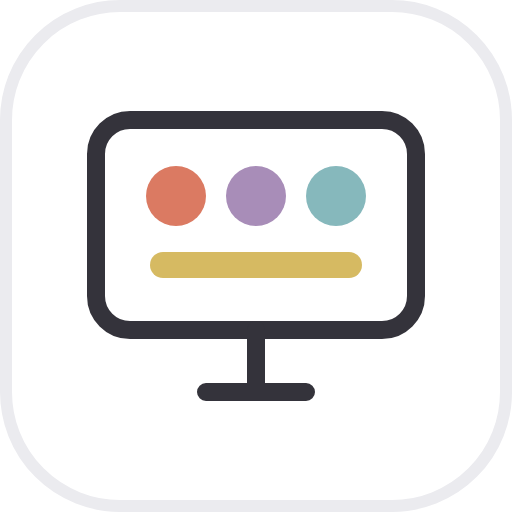
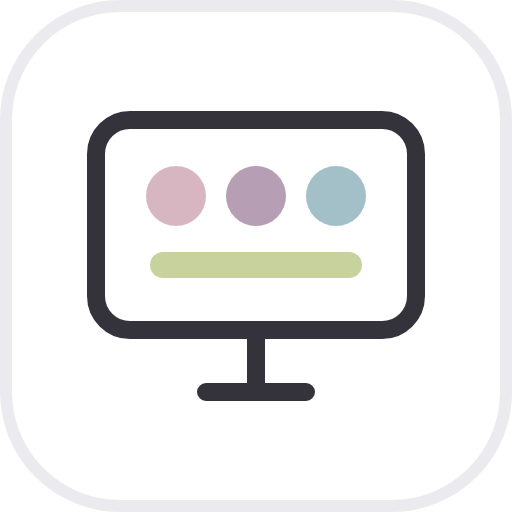
Five-colour palette and fresher offline updates
Board colours are now exactly #DEDDC3, #C8D29D, #A3BFC7, #B69FB4 and #D7B6C2, each with a tint and a readable text shade. The service worker now fetches fresh files (cache: reload) when a new version installs, so updates are never stored from the browser's short-term cache. Offline cache bumped to v8.

Changed region(s): [[0.2812, 0.4688, 0.7188, 0.5625], [0.5938, 0.3125, 0.7188, 0.4375], [0.2812, 0.3125, 0.4062, 0.4375]]

diff --git a/app.js b/app.js
@@ -50,7 +50,7 @@ const icon = name => {
 document.querySelectorAll('[data-icon]').forEach(n => n.replaceWith(icon(n.dataset.icon)));
 
 /* muted pastel tones; each name always gets the same one */
-const TONES = ['coral', 'teal', 'mustard', 'lavender', 'pink', 'sage', 'apricot', 'periwinkle', 'mauve', 'moss'];
+const TONES = ['blue', 'rose', 'pistachio', 'mauve', 'stone'];
 const toneOf = text => {
   let h = 0;
   for (const ch of text) h = (h * 31 + ch.codePointAt(0)) >>> 0;
@@ -587,7 +587,7 @@ const PIPS = { 1: [4], 2: [0, 8], 3: [0, 4, 8], 4: [0, 2, 6, 8], 5: [0, 2, 4, 6,
 
 const WIDGETS = {
   picker: {
-    title: 'Student picker', icon: 'picker', tone: 'coral', w: 340, h: 280,
+    title: 'Student picker', icon: 'picker', tone: 'rose', w: 340, h: 280,
     build(root, d) {
       const cls = activeClass();
       if (!cls.students.length) { root.append(needClass()); return; }
@@ -639,7 +639,7 @@ const WIDGETS = {
   },
 
   groups: {
-    title: 'Group maker', icon: 'groups', tone: 'lavender', w: 460, h: 380,
+    title: 'Group maker', icon: 'groups', tone: 'mauve', w: 460, h: 380,
     build(root, d) {
       const cls = rulesOf(activeClass());
       if (!cls.students.length) { root.append(needClass()); return; }
@@ -713,7 +713,7 @@ const WIDGETS = {
   },
 
   dice: {
-    title: 'Dice', icon: 'dice', tone: 'teal', w: 320, h: 300,
+    title: 'Dice', icon: 'dice', tone: 'blue', w: 320, h: 300,
     build(root, d) {
       d.count ||= 1; d.sides ||= 6;
       const tray = el('div', { class: 'dice' });
@@ -756,7 +756,7 @@ const WIDGETS = {
   },
 
   counter: {
-    title: 'Counter', icon: 'counter', tone: 'periwinkle', w: 320, h: 240,
+    title: 'Counter', icon: 'counter', tone: 'blue', w: 320, h: 240,
     build(root, d) {
       /* scores are kept per class; a new class starts with the same counter names at 0 */
       d.byClass ||= {};
@@ -786,7 +786,7 @@ const WIDGETS = {
   },
 
   gbg: {
-    title: 'Class Champions', icon: 'gbg', tone: 'sage', w: 760, h: 128, minH: 100, slim: true,
+    title: 'Class Champions', icon: 'gbg', tone: 'pistachio', w: 760, h: 128, minH: 100, slim: true,
     /* starts as a strip along the bottom of the screen, out of the way of the slides */
     pos: () => ({ x: Math.max(100, Math.round((innerWidth - 760) / 2)), y: Math.max(0, innerHeight - 128 - 16) }),
     build(root, d) {
@@ -932,7 +932,7 @@ const WIDGETS = {
   },
 
   timer: {
-    title: 'Timer', icon: 'timer', tone: 'pink', w: 290, h: 140, minH: 112, slim: true,
+    title: 'Timer', icon: 'timer', tone: 'rose', w: 290, h: 140, minH: 112, slim: true,
     /* a small pocket in the top-right corner, clear of the slides */
     pos: () => ({ x: Math.max(100, innerWidth - 290 - 16), y: 16 }),
     build(root, d) {
@@ -996,7 +996,7 @@ const WIDGETS = {
   },
 
   note: {
-    title: 'Note', icon: 'note', tone: 'mustard', w: 300, h: 240,
+    title: 'Note', icon: 'note', tone: 'stone', w: 300, h: 240,
     build(root, d) {
       d.size ||= 28;
       const area = el('textarea', { class: 'note-area', placeholder: 'Type a reminder, instruction or learning goal…',

diff --git a/sw.js b/sw.js
@@ -2,7 +2,7 @@
    After the first visit everything the board needs is kept on this device, so it opens
    with no internet, and even if a network filter later blocks the site.
    Bump VERSION whenever the app files change so devices pick up the update. */
-const VERSION = 'v6';
+const VERSION = 'v8';
 const CACHE = `classroom-board-${VERSION}`;
 const CORE = [
   './', './index.html', './styles.css', './app.js', './manifest.webmanifest',
@@ -19,9 +19,10 @@ const OUTSIDE_HOSTS = ['fonts.googleapis.com', 'fonts.gstatic.com', 'cdnjs.cloud
 self.addEventListener('install', event => {
   event.waitUntil((async () => {
     const cache = await caches.open(CACHE);
-    await cache.addAll(CORE);
+    // cache: 'reload' skips the browser's own short-term cache, so a new version never stores old files
+    await cache.addAll(CORE.map(url => new Request(url, { cache: 'reload' })));
     await Promise.all(OUTSIDE.map(async url => {
-      try { const res = await fetch(url, { mode: 'cors' }); if (res.ok) await cache.put(url, res); } catch {}
+      try { const res = await fetch(url, { mode: 'cors', cache: 'reload' }); if (res.ok) await cache.put(url, res); } catch {}
     }));
     self.skipWaiting();
   })());
@@ -60,7 +61,8 @@ self.addEventListener('fetch', event => {
     const cache = await caches.open(CACHE);
     const key = ours && req.mode === 'navigate' ? './index.html' : req;
     const cached = await cache.match(key, { ignoreSearch: ours });
-    const refresh = fetch(req).then(async res => {
+    const fresh = ours ? fetch(req.url, { cache: 'no-cache', credentials: 'same-origin' }) : fetch(req);
+    const refresh = fresh.then(async res => {
       if (ours ? await looksRight(req, res) : res.ok) await cache.put(key, res.clone());
       return res;
     }).catch(() => null);

diff --git a/styles.css b/styles.css
@@ -31,17 +31,13 @@
   --t-mid: #d9d9e0;
   --t-ink: #5d5b66;
 }
-/* muted pastels: tint (backgrounds), mid (outlines, accents), ink (text, readable on white and tint) */
-.tone-coral      { --t-bg: #f8e4e0; --t-mid: #db7a62; --t-ink: #a8472f; }
-.tone-teal       { --t-bg: #e7f1f2; --t-mid: #86b8bc; --t-ink: #447074; }
-.tone-mustard    { --t-bg: #f7f1e0; --t-mid: #d6ba62; --t-ink: #7d6827; }
-.tone-lavender   { --t-bg: #eee8f1; --t-mid: #a88db8; --t-ink: #7b5c8d; }
-.tone-pink       { --t-bg: #f8e9ef; --t-mid: #dc93ae; --t-ink: #af4169; }
-.tone-sage       { --t-bg: #ebf3ed; --t-mid: #9dc3a6; --t-ink: #4c7656; }
-.tone-apricot    { --t-bg: #f9ece4; --t-mid: #e2a27a; --t-ink: #9e572a; }
-.tone-periwinkle { --t-bg: #e8eaf1; --t-mid: #8e95ba; --t-ink: #5c6590; }
-.tone-mauve      { --t-bg: #f3ebf0; --t-mid: #c59ab6; --t-ink: #8e567b; }
-.tone-moss       { --t-bg: #eff5eb; --t-mid: #afcb9c; --t-ink: #557441; }
+/* the five board colours: tint (backgrounds), mid = the exact palette colour (outlines, accents),
+   ink = deeper shade of the same colour for text (4.5:1+ on white and on the tint) */
+.tone-blue      { --t-bg: #dfe9eb; --t-mid: #a3bfc7; --t-ink: #426a75; }
+.tone-rose      { --t-bg: #f1e5ea; --t-mid: #d7b6c2; --t-ink: #9c4e6a; }
+.tone-pistachio { --t-bg: #ecefdd; --t-mid: #c8d29d; --t-ink: #616d2c; }
+.tone-mauve     { --t-bg: #e5dde5; --t-mid: #b69fb4; --t-ink: #765673; }
+.tone-stone     { --t-bg: #f3f3ea; --t-mid: #deddc3; --t-ink: #6f6d38; }
 
 * { box-sizing: border-box; }
 [hidden] { display: none !important; }
